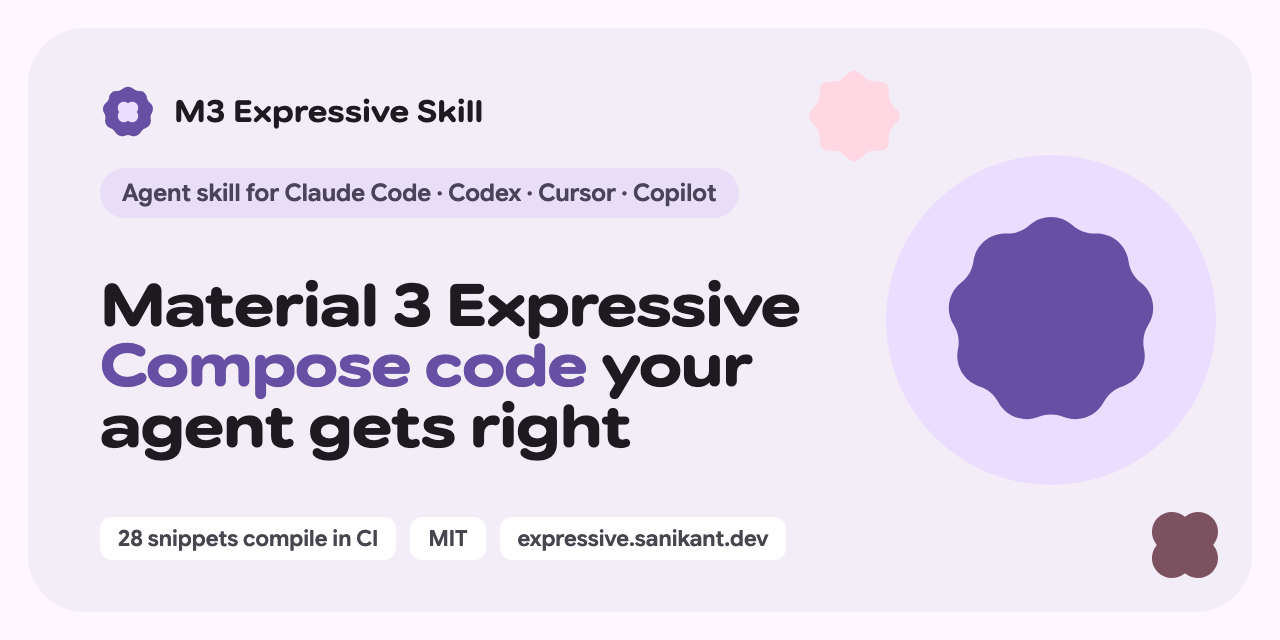
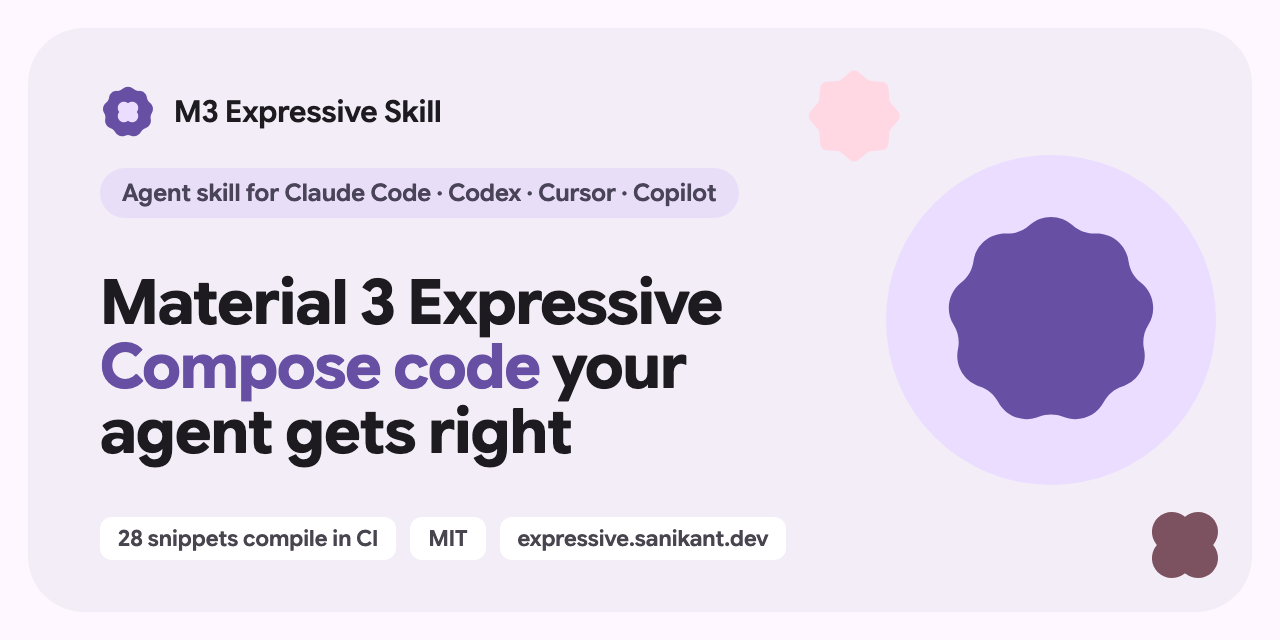
Match paywall.sanikant.dev typography
Google Sans Flex at normal width and roundness, weight 600 headings and
Starlight's default sizes, on the site, the OG cards and the GitHub
social preview.

Changed region(s): [[0.0625, 0.4375, 0.625, 0.75], [0.125, 0.1562, 0.375, 0.2188]]

diff --git a/site/src/styles/custom.css b/site/src/styles/custom.css
@@ -1,8 +1,5 @@
 /* Starlight dressed as a Material 3 Expressive site. Tokens live in tokens.css and springs.css. */
 
-html {
-  font-variation-settings: 'ROND' 0;
-}
 body {
   background: var(--md-surface);
 }
@@ -26,25 +23,11 @@ body {
   flex-shrink: 0;
 }
 
-/* ---------- Type: emphasized headings, wider and rounder like the M3 Expressive specimens ---------- */
+/* ---------- Type: Google Sans Flex at normal width, same as paywall.sanikant.dev ---------- */
 .sl-markdown-content :is(h1, h2, h3),
-h1#_top,
-.content-panel h1 {
-  font-weight: 650;
-  font-stretch: 108%;
-  font-variation-settings: 'ROND' 60;
-  letter-spacing: -0.012em;
-}
-.sl-markdown-content h2 {
-  font-size: clamp(1.6rem, 3vw, 2rem);
-  margin-top: 2.75rem;
-}
-.sl-markdown-content h3 {
-  font-size: 1.3rem;
-}
-.sl-markdown-content {
-  font-size: 1.0625rem;
-  line-height: 1.7;
+.hero-m3 h1 {
+  font-weight: 600;
+  letter-spacing: -0.01em;
 }
 .sl-markdown-content a:not(.md-btn):not(.md-card) {
   color: var(--md-primary);
@@ -66,9 +49,7 @@ header.header {
   padding-inline: 1rem;
 }
 .site-title {
-  font-weight: 700;
-  font-stretch: 112%;
-  font-variation-settings: 'ROND' 100;
+  font-weight: 600;
   color: var(--md-on-surface);
   gap: 0.6rem;
 }
@@ -110,7 +91,6 @@ starlight-theme-select label {
   border-radius: var(--md-shape-full);
   padding: 0.55rem 1rem;
   color: var(--md-on-surface-variant);
-  font-size: 0.95rem;
   transition:
     background-color var(--md-spring-default-effects-ms) var(--md-spring-default-effects),
     border-radius var(--md-spring-expressive-fast-spatial-ms) var(--md-spring-expressive-fast-spatial);
@@ -132,7 +112,6 @@ starlight-theme-select label {
 .sidebar-content .group-label .large {
   font-size: 0.8rem;
   font-weight: 700;
-  font-stretch: 110%;
   letter-spacing: 0.04em;
   text-transform: uppercase;
   color: var(--md-on-surface-variant);
@@ -311,8 +290,7 @@ a.md-card:focus-visible {
 }
 .md-card strong {
   font-size: 1.1rem;
-  font-weight: 650;
-  font-stretch: 105%;
+  font-weight: 600;
   margin-top: 0.4rem;
 }
 .md-card span:not(.msr) {
@@ -381,10 +359,6 @@ body:has(.hero-m3) {
   --sl-content-width: 74rem;
 }
 body:has(.hero-m3) .sl-markdown-content > h2 {
-  font-size: clamp(1.9rem, 4vw, 2.75rem);
-  font-weight: 720;
-  font-stretch: 115%;
-  font-variation-settings: 'ROND' 100;
   margin-top: 4.5rem;
 }
 .landing-demos {

diff --git a/site/src/styles/tokens.css b/site/src/styles/tokens.css
@@ -56,7 +56,6 @@
 
   --sl-font: 'Google Sans Flex', 'Google Sans Flex Fallback', ui-sans-serif, system-ui, sans-serif;
   --sl-content-width: 50rem;
-  --sl-text-h1: clamp(2.25rem, 5vw, 3.25rem);
   --sl-nav-height: 4.25rem;
 }
 

diff --git a/site/src/styles/demos.css b/site/src/styles/demos.css
@@ -416,8 +416,7 @@
 .d-appbar-title {
   margin: 2.5rem 0 0;
   font-size: 2.25rem;
-  font-weight: 700;
-  font-stretch: 112%;
+  font-weight: 600;
   line-height: 1.1;
 }
 .d-appbar-sub {
